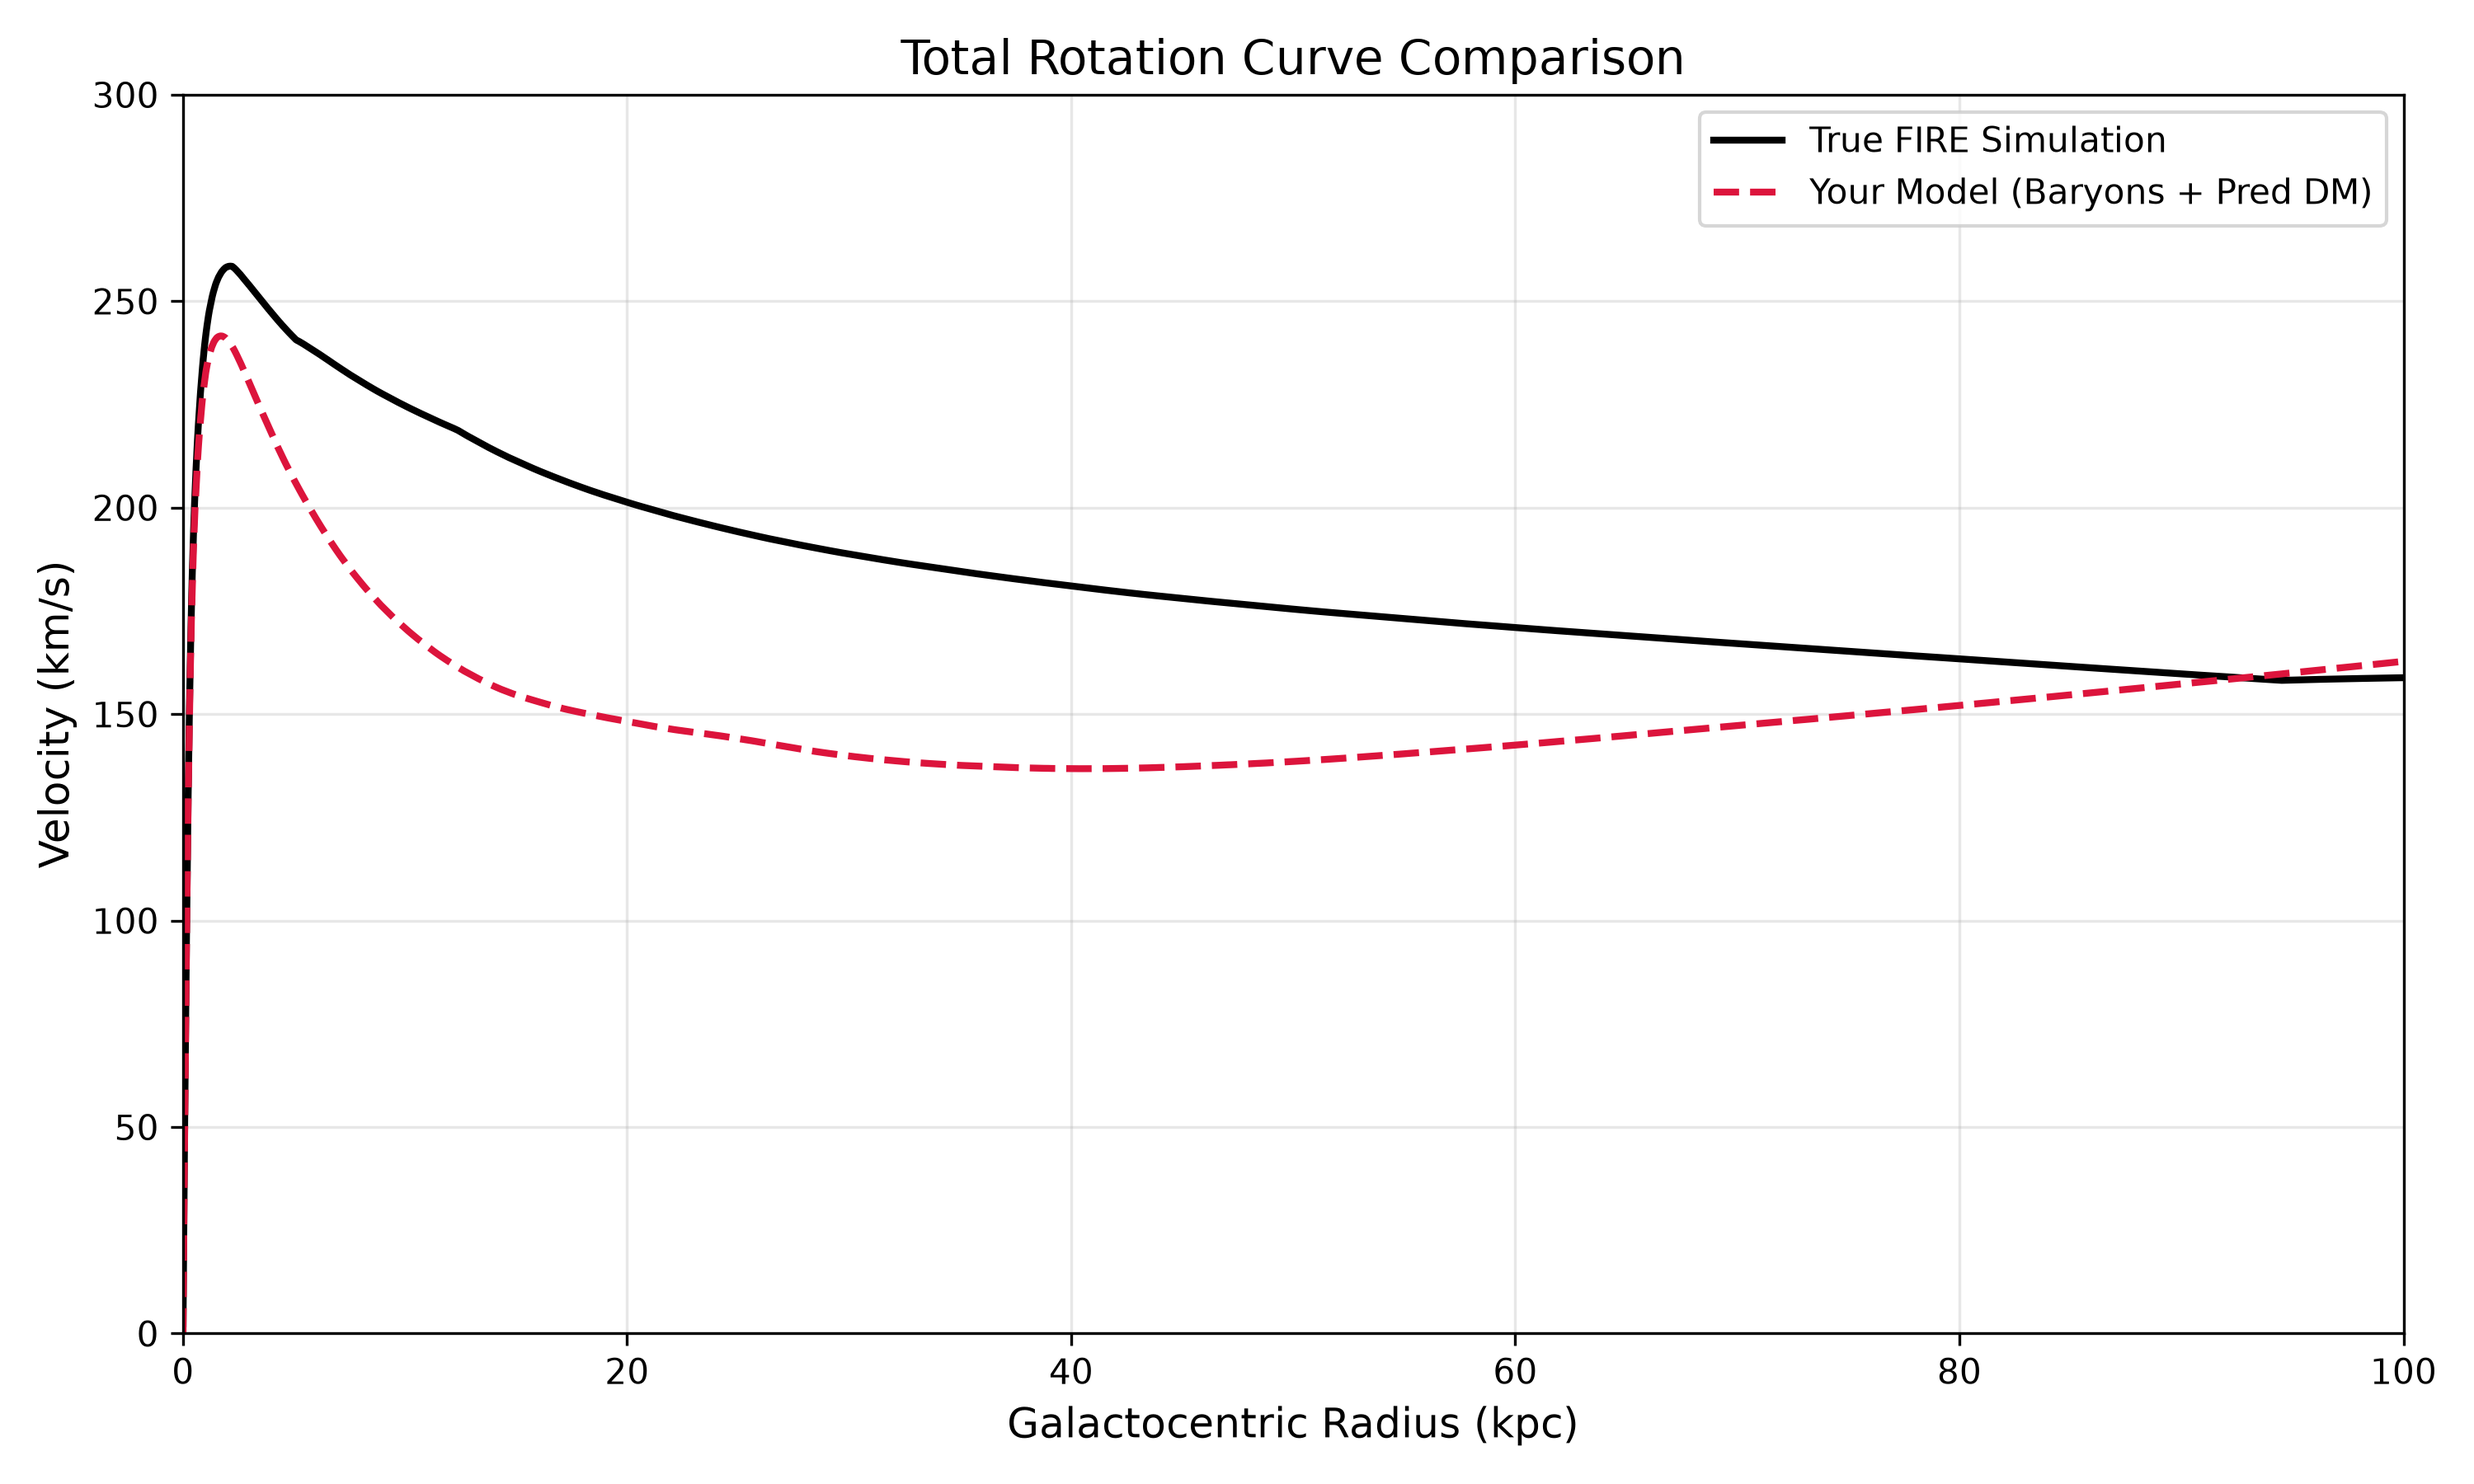
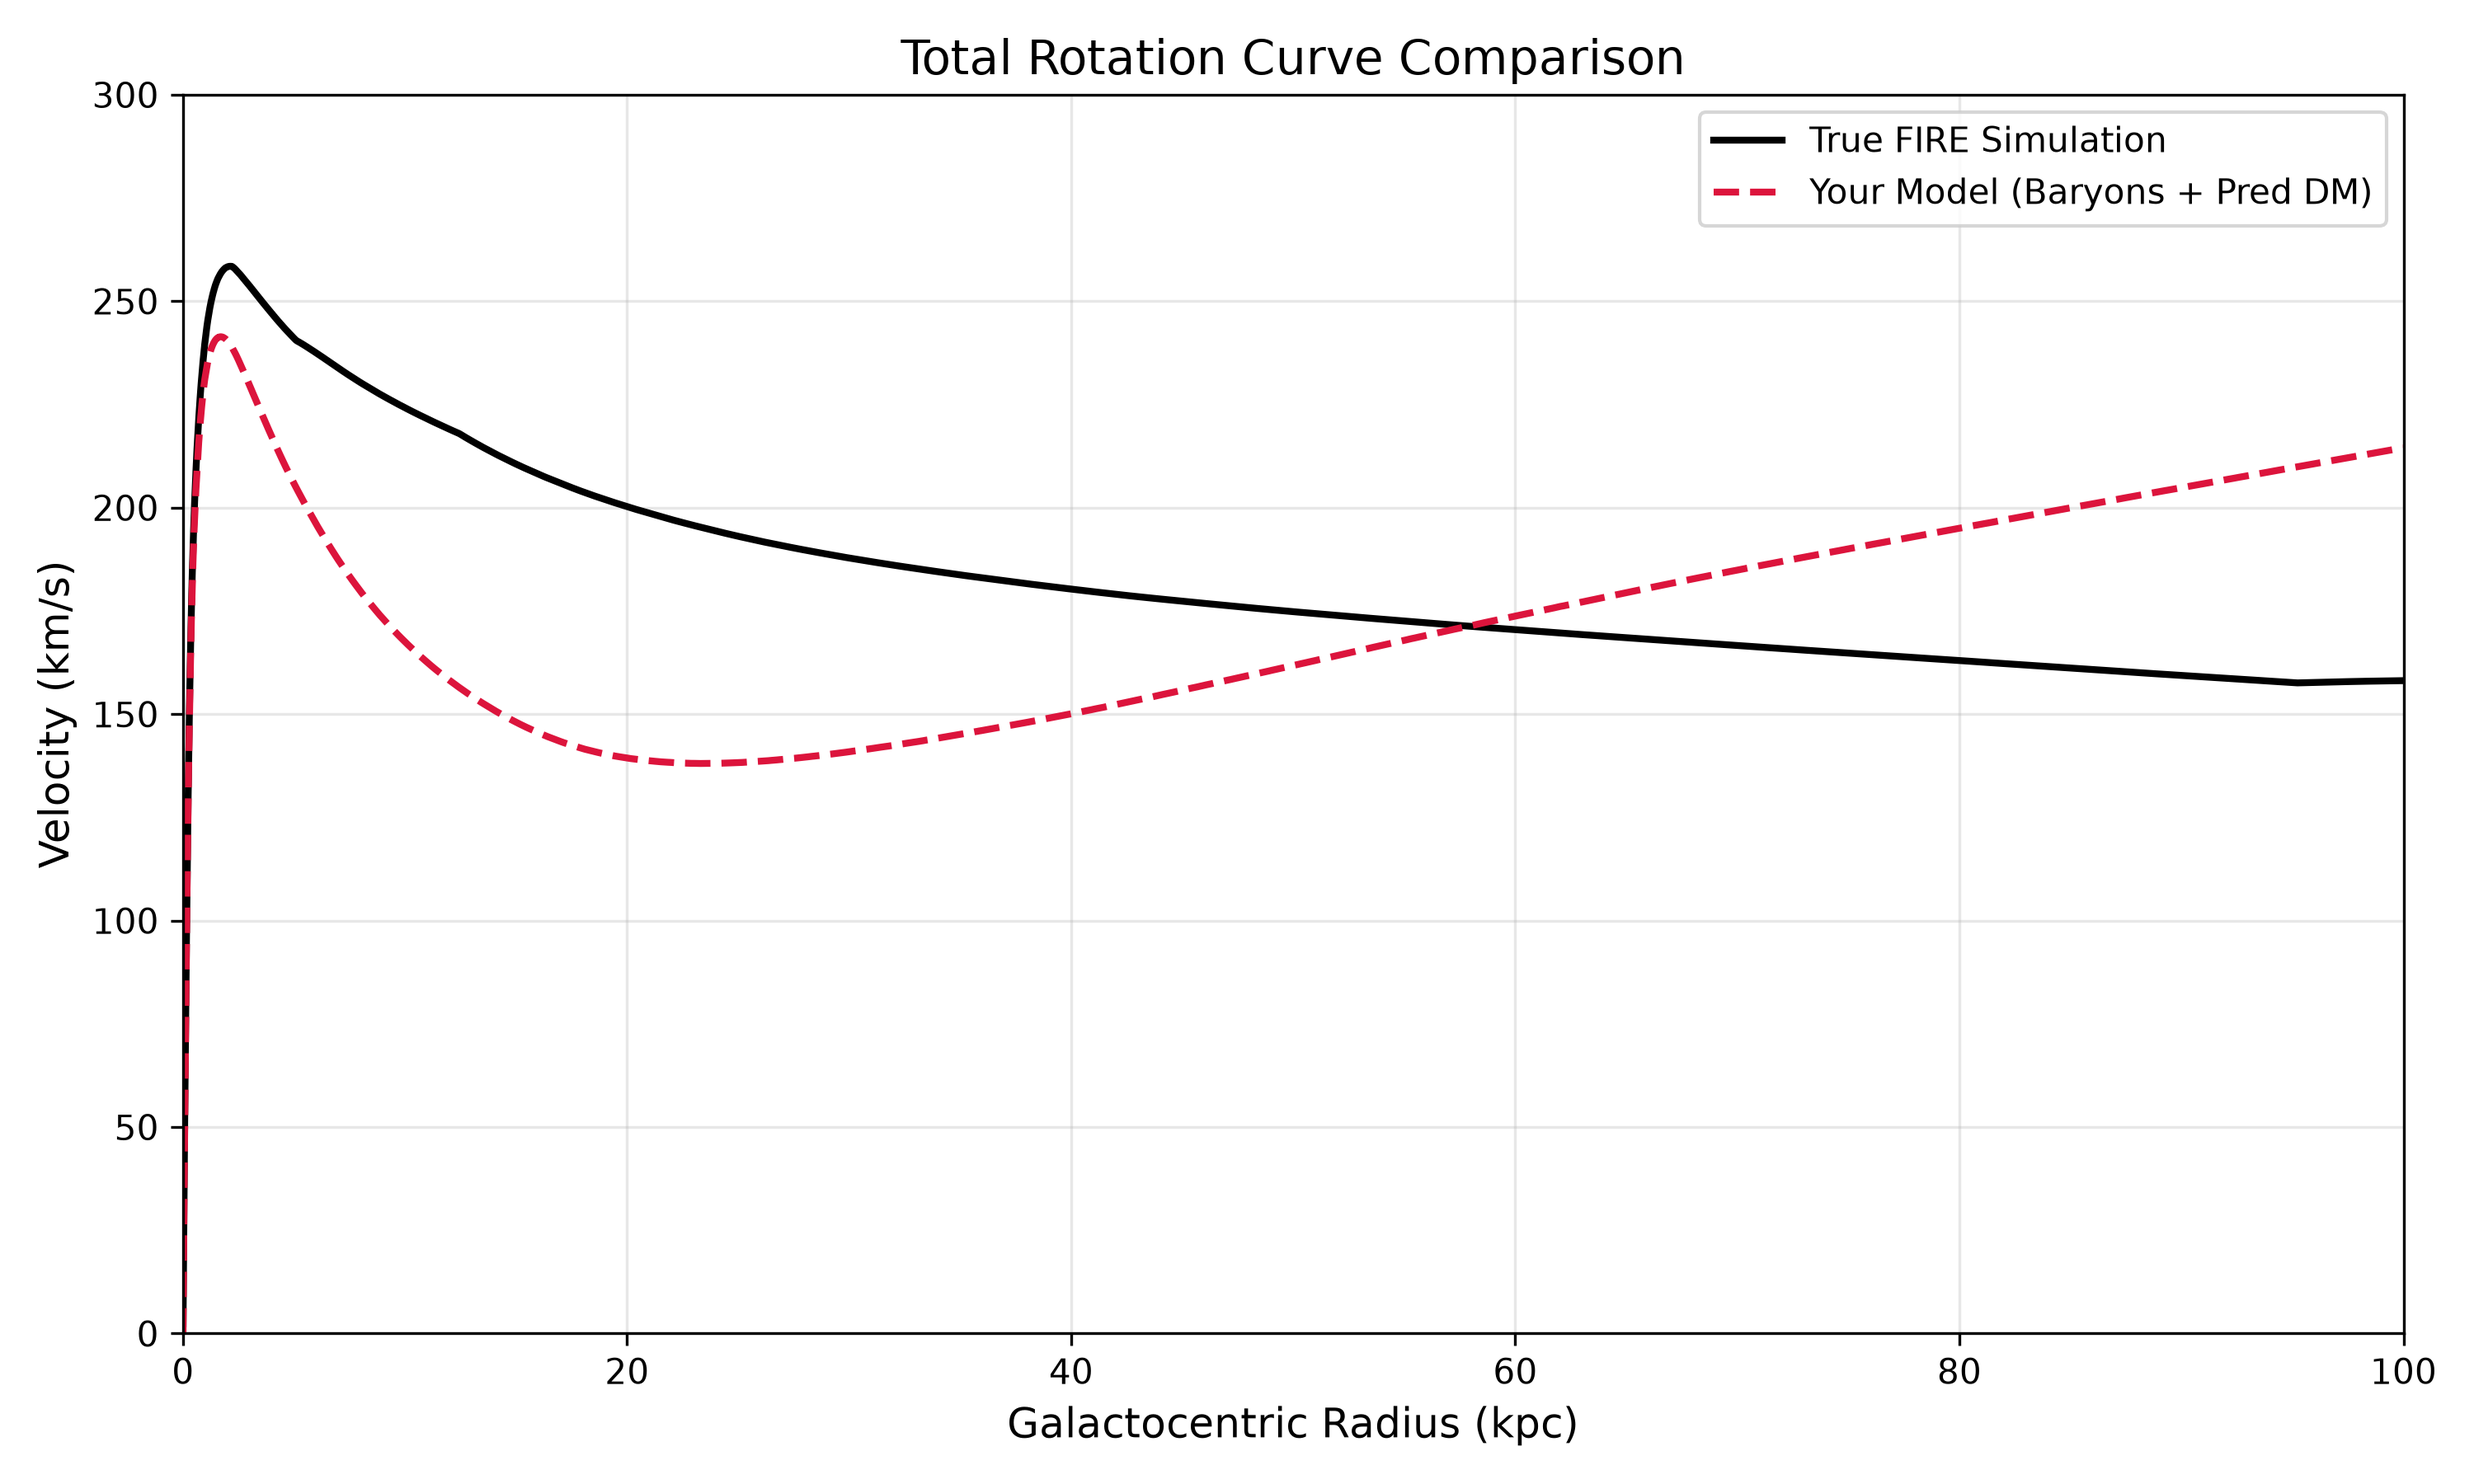
new images for density maps, new stats python

diff --git a/fire2-stats.py b/fire2-stats.py
@@ -1,0 +1,115 @@
+import numpy as np
+from scipy.spatial import cKDTree
+
+# Following the gemini app discussion "Milky Way Mock Catalogs"
+# download (not included in git repo the m12i simulation)
+# https://users.flatironinstitute.org/~mgrudic/fire2_public_release/core/m12i_res7100/output/snapdir_600/ 
+# (it says you need to be a member of the FIRE collaboration to access this, but it worked for me just fine)
+
+
+import numpy as np
+import matplotlib.pyplot as plt
+import gizmo_analysis as gizmo
+
+# ==========================================
+# 1. CONFIGURATION & CONSTANTS
+# ==========================================
+SNAPSHOT_NUM = 600
+DENSITY_THRESHOLD = 0.003  # cm^-3 (filtering for diffuse gas)
+DISTANCE_LIMIT = 100.0    # kpc
+  
+G = 4.3009e-6             # Gravitational constant: kpc * (km/s)^2 / M_sun
+c = 299792458.0           # Speed of light: m/s
+MSUN_TO_KG = 1.989e30     # Solar masses to kilograms
+MSUN_KPC3_TO_KG_M3 = 6.77e-29 # Mass density conversion
+
+def get_component_velocity(radii, masses):
+    """Sorts particles by radius and calculates circular velocity."""
+    sort_idx = np.argsort(radii)
+    r_sorted = radii[sort_idx]
+    m_sorted = masses[sort_idx]
+    
+    enclosed_mass = np.cumsum(m_sorted)
+    v_circ = np.sqrt((G * enclosed_mass) / (r_sorted + 1e-6)) # Avoid div by zero
+    return r_sorted, v_circ
+
+# ==========================================
+# 2. LOAD DATA & EXTRACT PROPERTIES
+# ==========================================
+print("Loading snapshot data...")
+
+part = gizmo.io.Read.read_snapshots(
+    ['star', 'gas', 'dark'], 
+    'index', 
+    SNAPSHOT_NUM, 
+    assign_hosts=True,
+    #simulation_directory='./m10q_res30'
+    simulation_directory='./m12i_res7100'
+)
+
+# Extract Radii
+# Changed from 'host.distance.principal.spherical' to 'host.distance.spherical'
+r_stars = part['star'].prop('host.distance.spherical')[:, 0]
+r_gas_all = part['gas'].prop('host.distance.spherical')[:, 0]
+r_dm_all = part['dark'].prop('host.distance.spherical')[:, 0]
+
+# star positions
+pos_stars_all = part['star'].prop('host.distance') # 3D Cartesian coords
+
+# Extract Masses
+mass_stars = part['star']['mass']
+mass_gas_all = part['gas']['mass']
+mass_dm_all = part['dark']['mass']
+
+# ==========================================
+# 3. FILTER AND PLOT GAS BLOBS
+# ==========================================
+print("Extracting and filtering gas properties...")
+
+# Extract 3D positions (X, Y, Z in kpc) and number density (cm^-3)
+pos_gas_all = part['gas'].prop('host.distance')
+n_gas = part['gas'].prop('number.density')
+
+# Create Boolean masks based on your configuration limits
+# Dense gas "blobs" are typically > 1 cm^-3 (molecular/cold atomic clouds)
+mask_distance = r_gas_all < DISTANCE_LIMIT
+mask_density = n_gas > DENSITY_THRESHOLD
+
+# Combine the masks
+mask_blobs = mask_distance & mask_density
+
+# Apply the mask to get the X and Y coordinates (Face-on view)
+x_blobs = pos_gas_all[mask_blobs, 0]
+y_blobs = pos_gas_all[mask_blobs, 1]
+
+print(f"Found {np.sum(mask_blobs):,} dense gas particles out of {len(r_gas_all):,}")
+
+# Plotting the distribution
+plt.figure(figsize=(9, 8))
+
+# A hexbin plot with logarithmic bins is perfect for visualizing dense cluster centers
+hb = plt.hexbin(
+    x_blobs, 
+    y_blobs, 
+    gridsize=200,      # Higher number = finer resolution
+    cmap='magma',      # 'magma' or 'inferno' are great for dark-background density maps
+    bins='log',        # Log scale helps visualize the dense cores against the background
+    mincnt=1           # Only show bins with at least 1 particle
+)
+
+# Formatting the plot
+plt.colorbar(hb, label='Log$_{10}$(Particle Count)')
+plt.xlabel('X distance (kpc)', fontsize=12)
+plt.ylabel('Y distance (kpc)', fontsize=12)
+plt.title(f'm12i Dense Gas Blobs Distribution (n > {DENSITY_THRESHOLD} cm$^{{-3}}$)', fontsize=14)
+
+# Force the axes to be equal so the galaxy disk doesn't look stretched or squished
+plt.gca().set_aspect('equal', adjustable='box')
+ 
+# Zoom in a bit tighter than the 100 kpc limit to see the main disk structure
+plot_zoom = 50.0 
+plt.xlim(-plot_zoom, plot_zoom)
+plt.ylim(-plot_zoom, plot_zoom)
+
+plt.tight_layout()
+plt.show()

diff --git a/darkmatter.py b/darkmatter.py
@@ -15,7 +15,7 @@ import gizmo_analysis as gizmo
 # 1. CONFIGURATION & CONSTANTS
 # ==========================================
 SNAPSHOT_NUM = 600
-DENSITY_THRESHOLD = 0.1  # cm^-3 (filtering for diffuse gas)
+DENSITY_THRESHOLD = 0.003  # cm^-3 (filtering for diffuse gas)
 DISTANCE_LIMIT = 100.0    # kpc
 
 G = 4.3009e-6             # Gravitational constant: kpc * (km/s)^2 / M_sun
@@ -129,6 +129,11 @@ sum_factor_total = sum_factor_gas + sum_factor_star
 # Calculate P and distribute the predicted Dark Matter
 P = target_dm_mass_kg / sum_factor_total
 print(f"Calculated Shared Power P: {P:.2e} Watts")
+
+P = 25.0
+print(f"Using forced Shared Power P: {P:.2e} Watts")
+
+
 
 dm_mass_msun_pred_gas = (P * (V_i_gas / (c**3 * d_avg_gas**alpha_std))) / MSUN_TO_KG
 dm_mass_msun_pred_star = (P * (V_i_star / (c**3 * d_avg_star**alpha_std))) / MSUN_TO_KG
